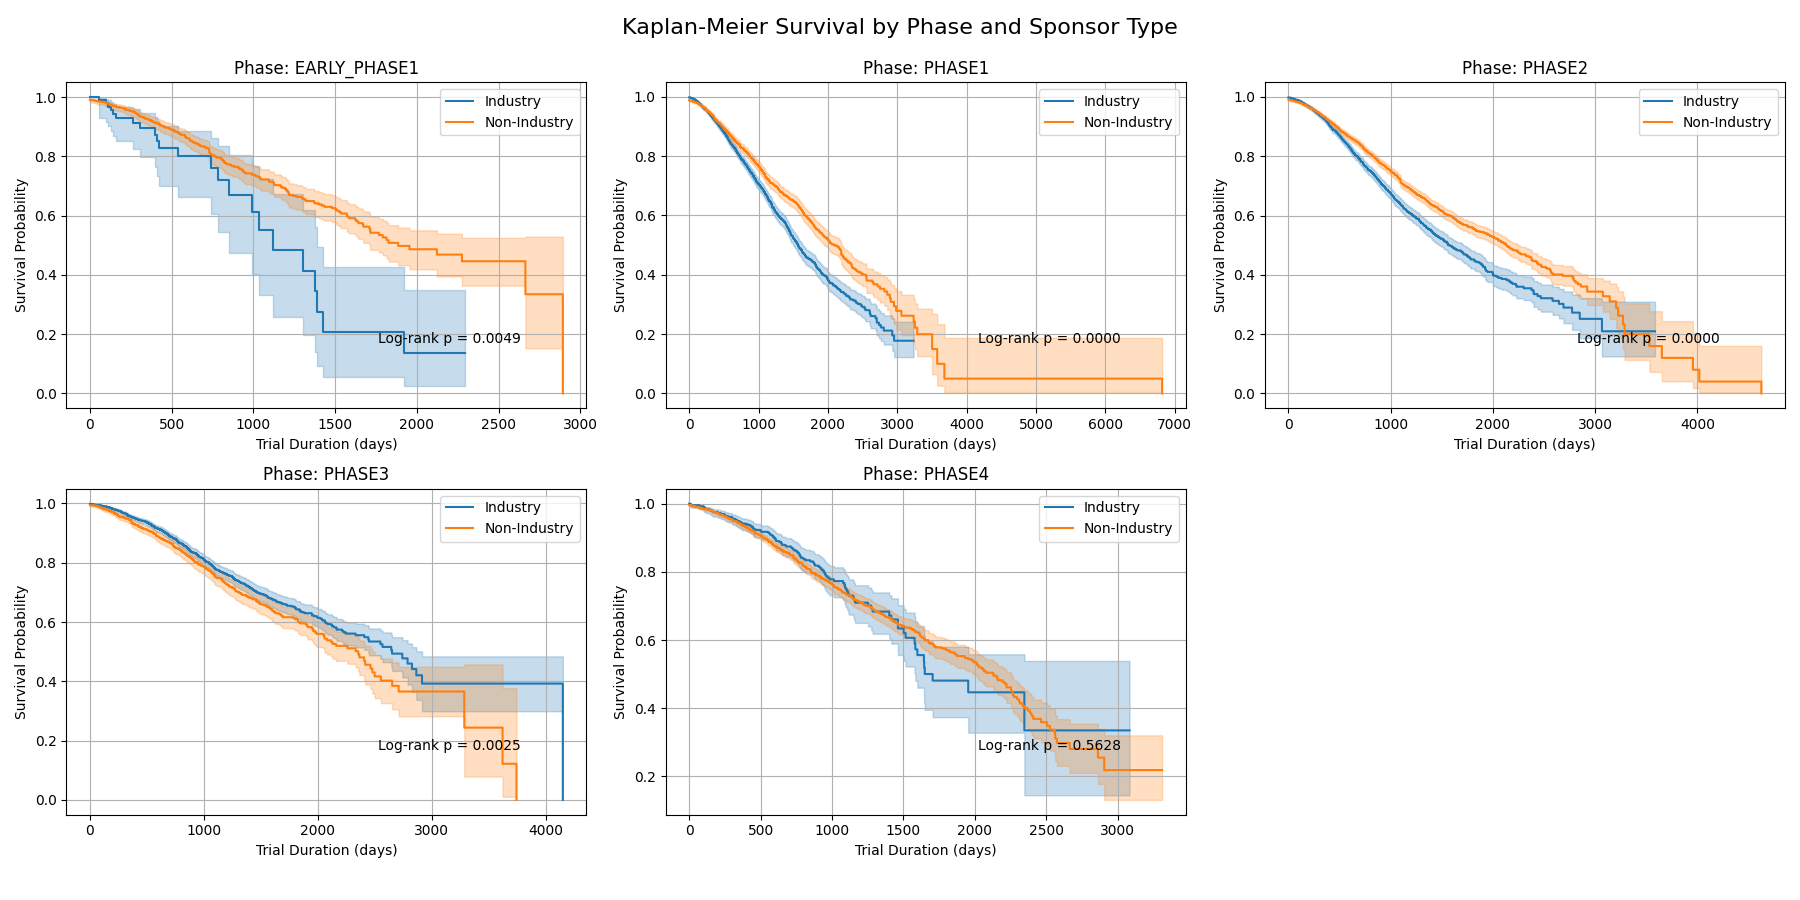
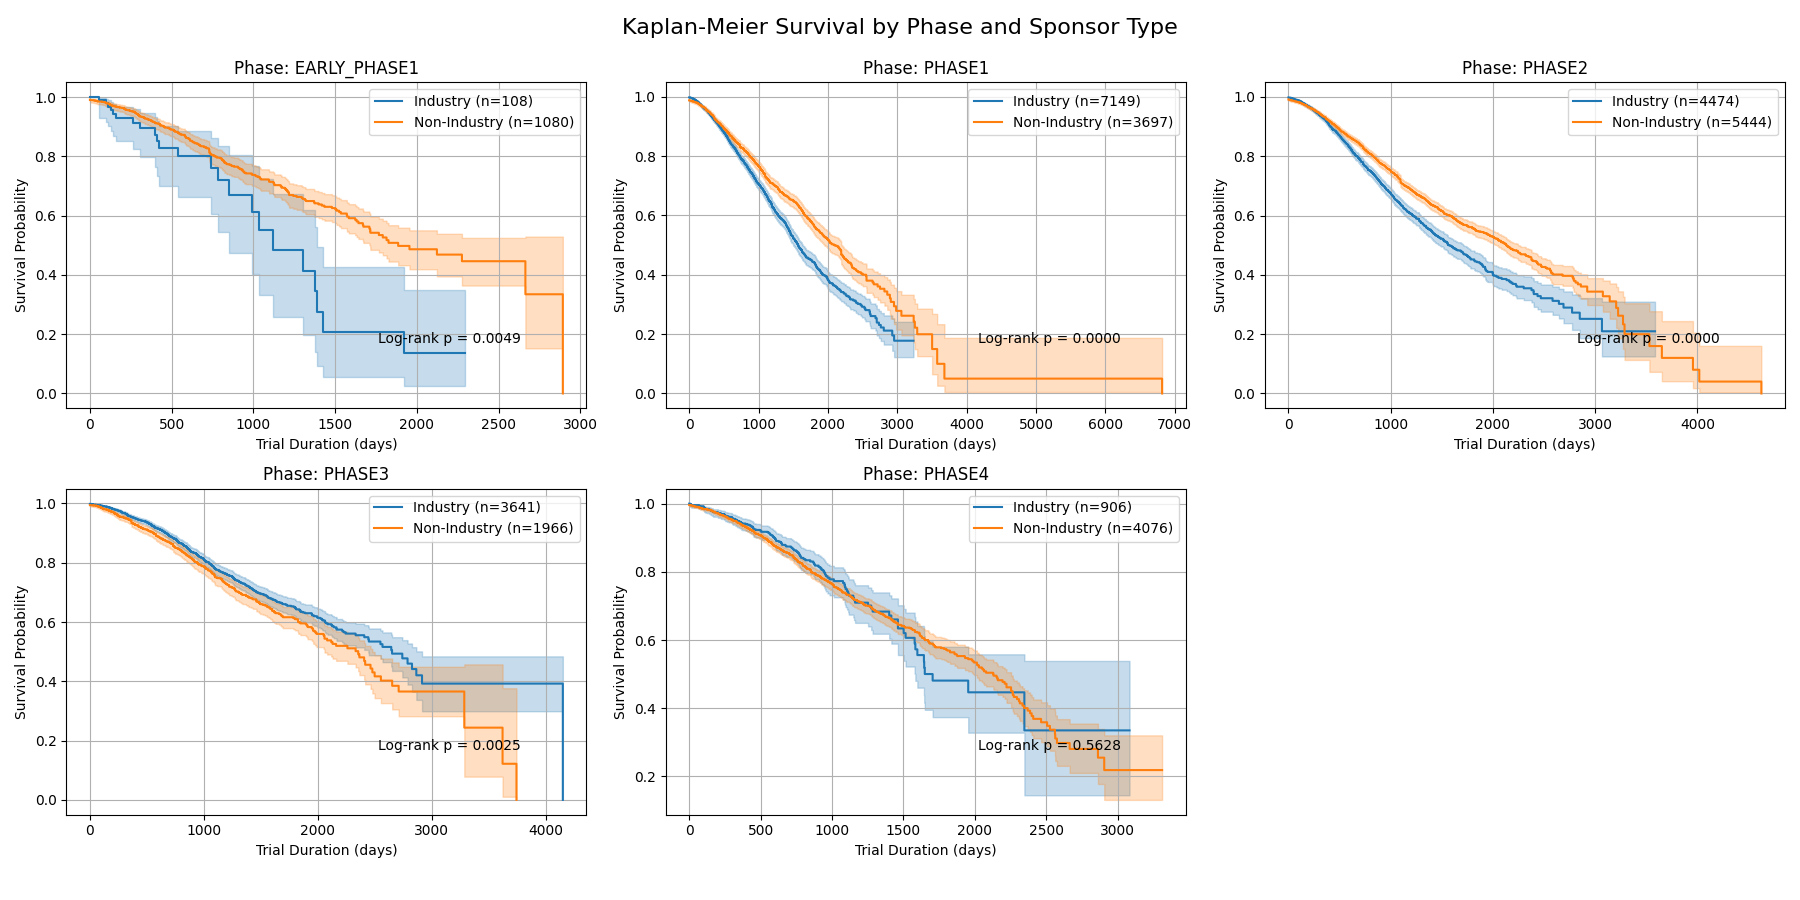
changes to plots

diff --git a/model_development/non_parametric/kaplan-meier.py b/model_development/non_parametric/kaplan-meier.py
@@ -15,14 +15,14 @@ PHASE_COLS = [
     "phase_phase3", "phase_phase4"
 ]
 
-# ------------ GET PHASE LABEL ------------
+# ------------ GET PHASE LABEL ------------ 
 def get_phase(row):
     for col in reversed(PHASE_COLS):  # Phase 4 > Phase 3 > ...
         if row.get(col, 0) == 1:
             return col.replace("phase_", "").upper()
     return "UNKNOWN"
 
-# ------------ MAIN FUNCTION ------------
+# ------------ MAIN FUNCTION ------------ 
 def run_kaplan_meier():
     df = pd.read_csv(DATA_PATH)
     df = df[df["trial_duration_days"].notnull()]
@@ -49,11 +49,13 @@ def run_kaplan_meier():
             if mask.sum() == 0:
                 continue
 
+            n = mask.sum()
+            label = f"{sponsor} (n={n})"
+
             kmf = KaplanMeierFitter()
-            kmf.fit(T[mask], E[mask], label=sponsor)
+            kmf.fit(T[mask], E[mask], label=label)
             kmf.plot_survival_function(ax=ax)
 
-            n = mask.sum()
             events = E[mask].sum()
             censoring = 1 - (events / n)
             median = kmf.median_survival_time_
@@ -100,6 +102,6 @@ def run_kaplan_meier():
     print(f"Figure saved to: {FIGURE_PATH}")
     print(f"Summary saved to: {SUMMARY_PATH}")
 
-# ------------ RUN ------------
+# ------------ RUN ------------ 
 if __name__ == "__main__":
     run_kaplan_meier()
